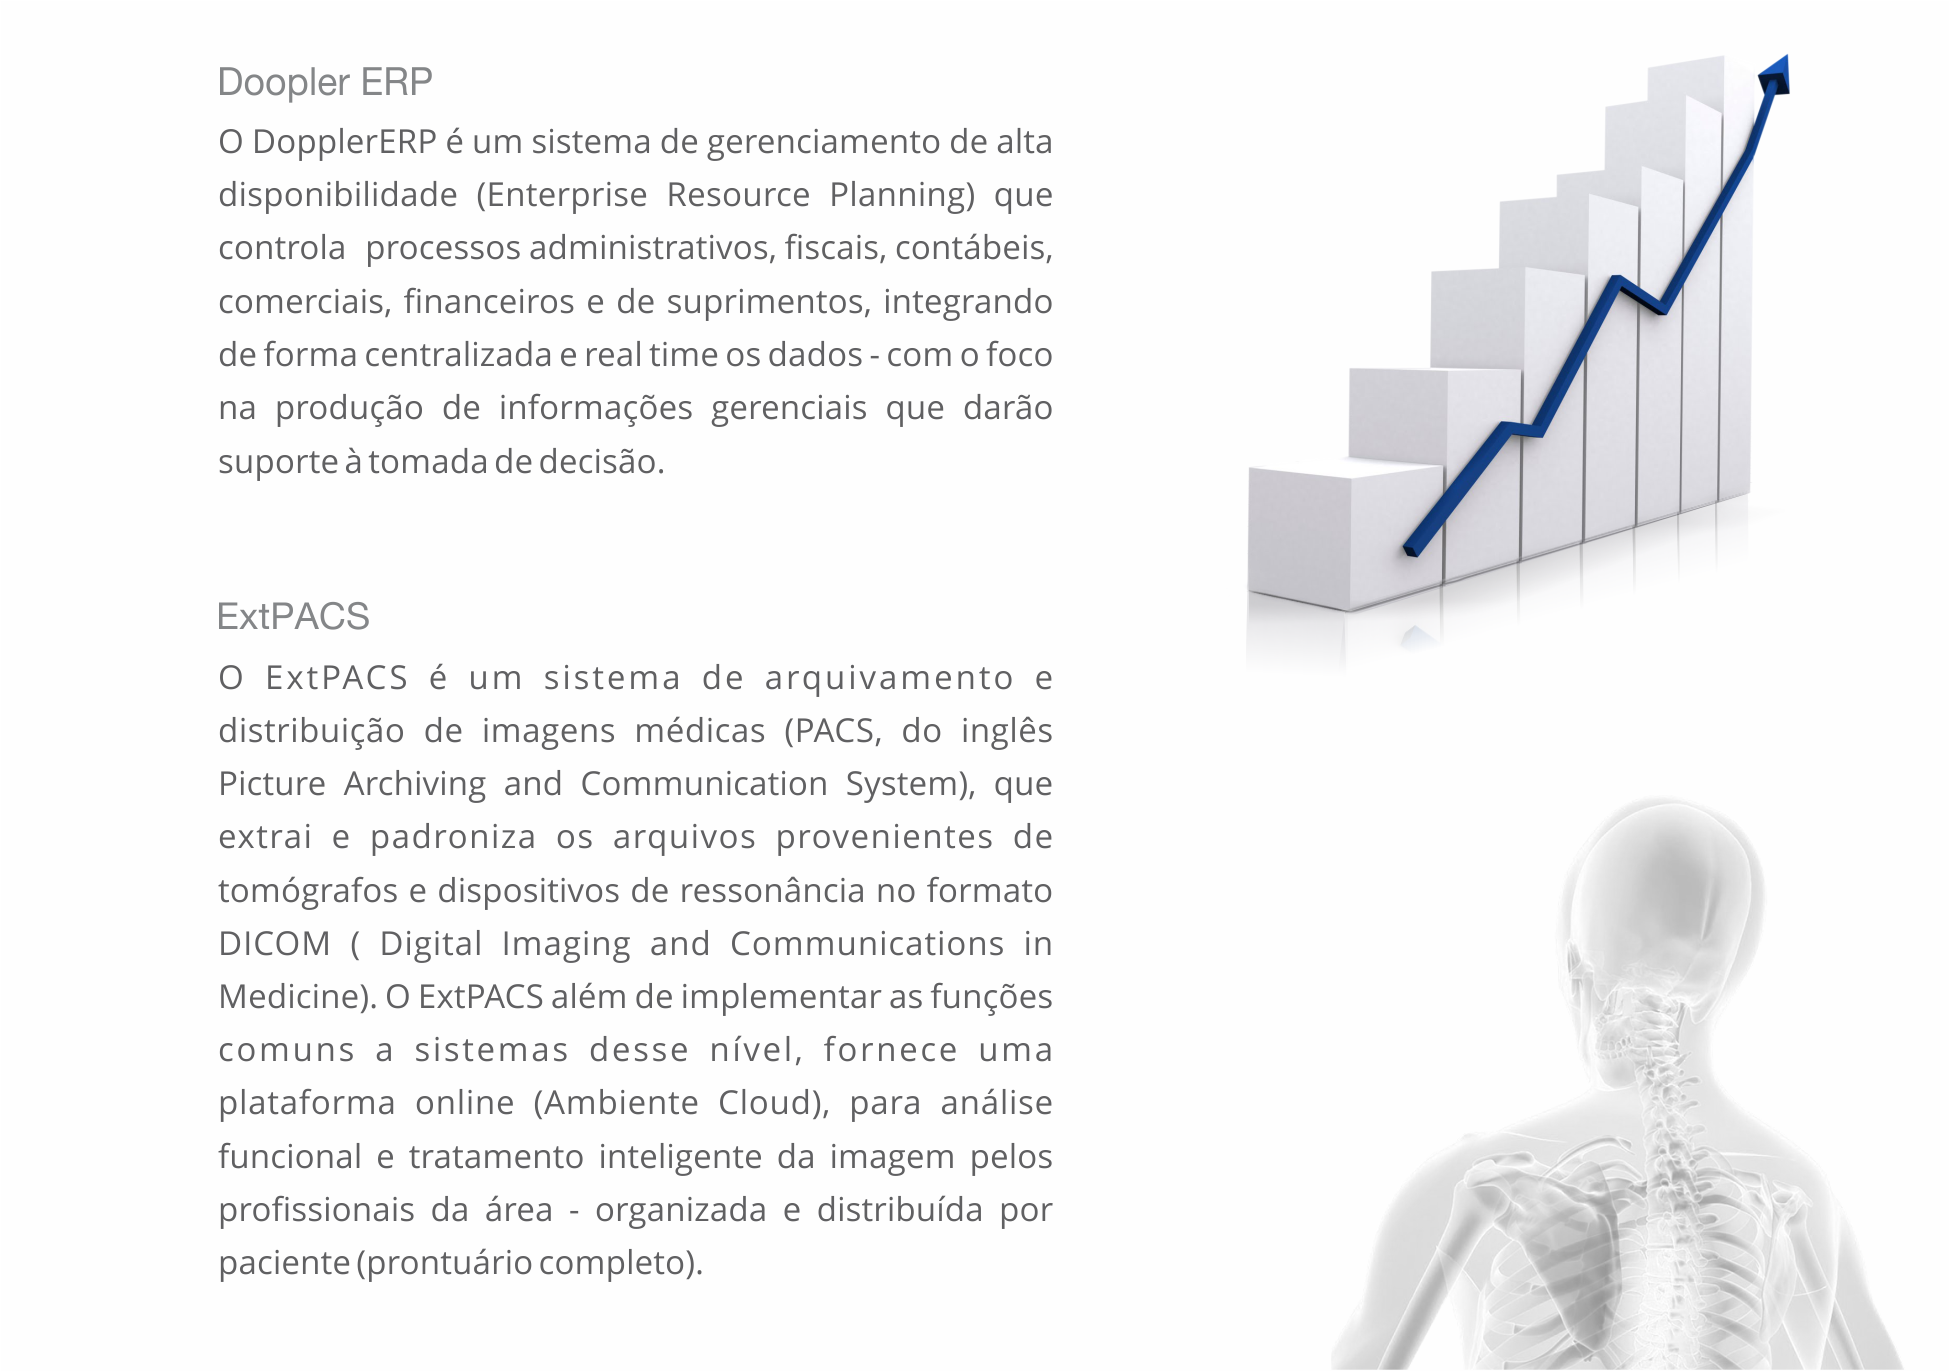
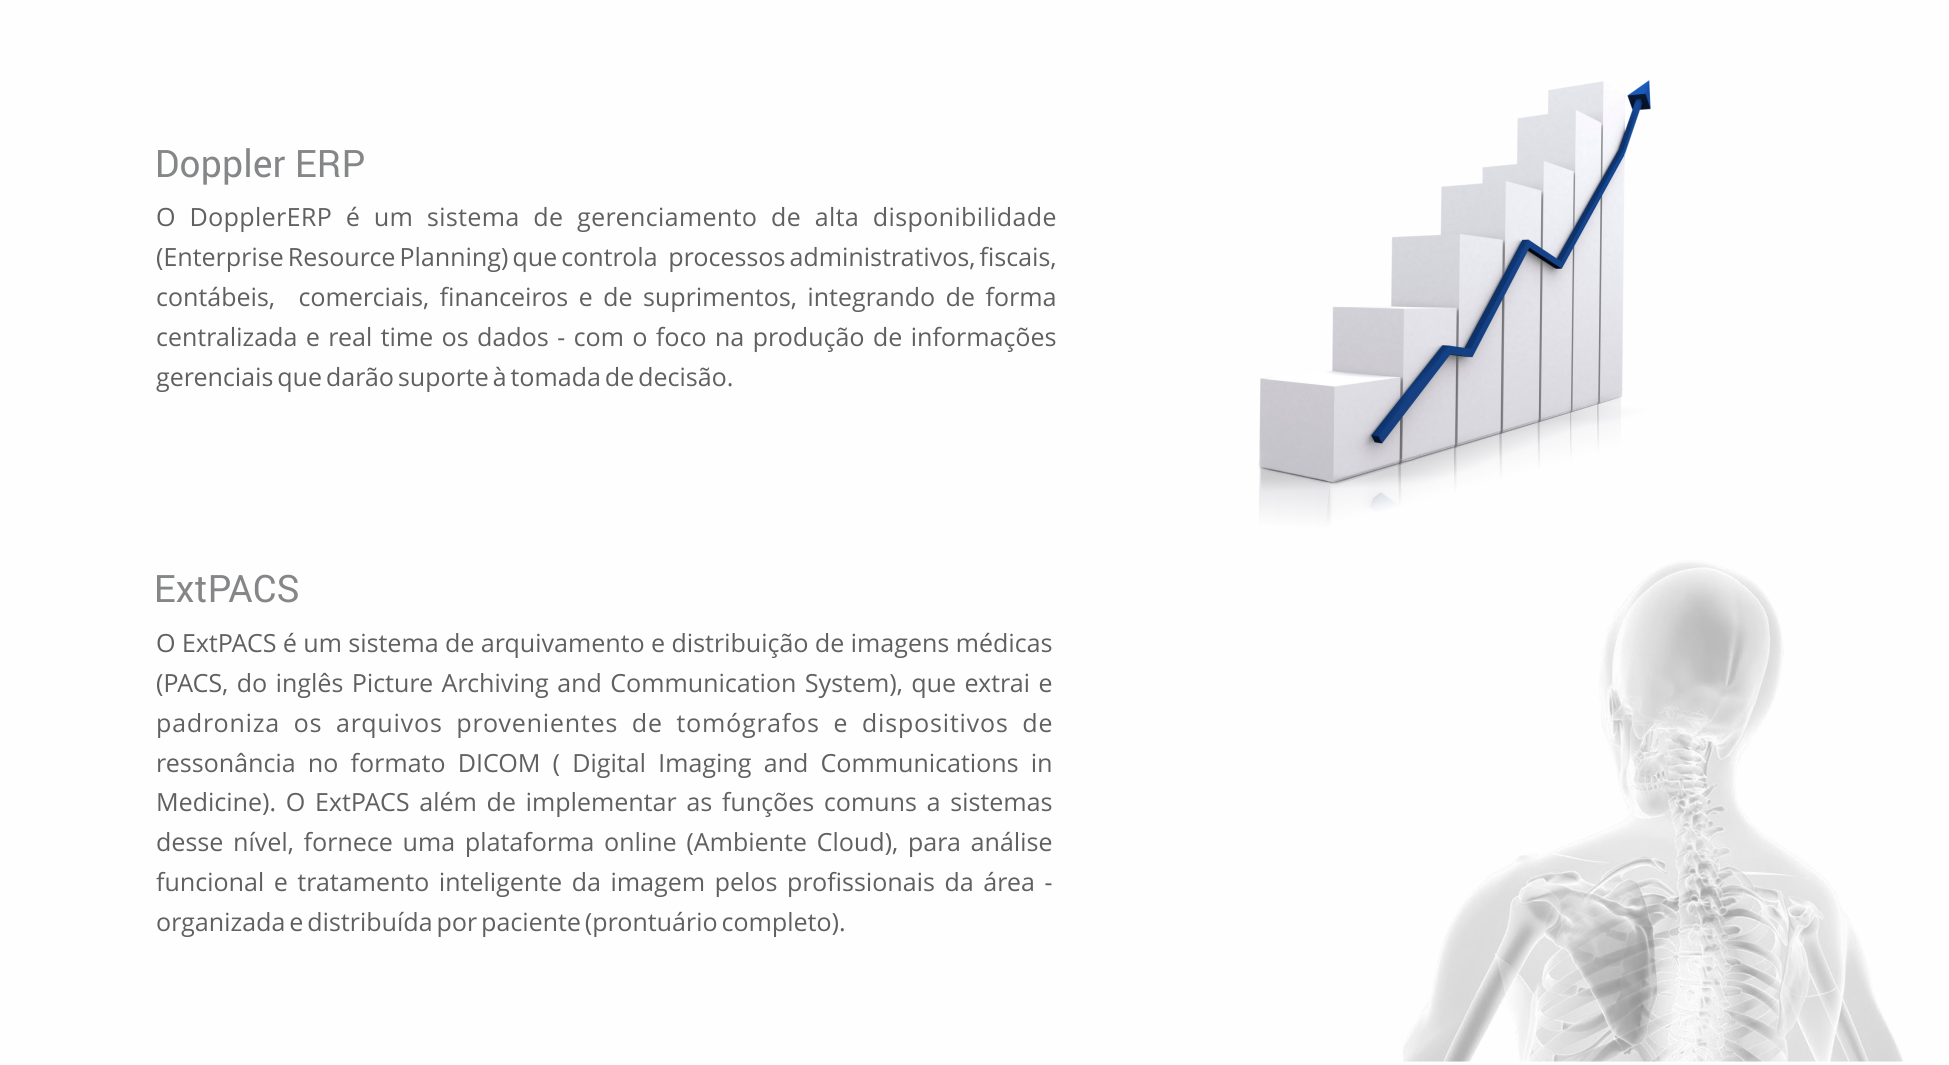
Ajustado css para mobile

diff --git a/index.html b/index.html
@@ -4,7 +4,6 @@
 		<title>Adroaldo Pagliari</title>
 		<meta charset="utf-8">
 		<meta name="viewport" content="width=device-width">
-
 		<link rel="icon" href="imgs/favicon.png">
 		<link href='https://fonts.googleapis.com/css?family=Open+Sans' rel='stylesheet' type='text/css'>
 		<link href='https://fonts.googleapis.com/css?family=Roboto' rel='stylesheet' type='text/css'>
@@ -75,7 +74,31 @@
 		<div class= "box" id="portifolio">
 			<div class="container">
 				<h1>Meu Portifólio</h1>
-				<img src="imgs/portifolio.png" alt="portifolio" title="portifolio">
+				<div class="produto">
+					<h3>DopplerERP</h3>
+					<br>
+					<p>
+						O DopplerERP é um sistema de gerenciamento de alta disponibilidade (Enterprise Resource Planning) que controla
+						processos administrativos, fiscais, contábeis,
+						comerciais, financeiros e de suprimentos, integrando
+						de forma centralizada e real time os dados -
+						com o foco na produção de informações gerenciais que darão suporte à tomada de decisão.
+					</p>
+				</div>
+				<div class="produtoIMG">
+					<img src="imgs/graph.png" title="gráfico" alt="graph">
+				</div>
+				<div class="produto1">
+					<h3>ExtPACS</h3>
+					<br>
+					<p>
+						O ExtPACS é um sistema de arquivamento e distribuição de imagens médicas (PACS, do inglês Picture Archiving and Communication System),	que extrai e padroniza os arquivos provenientes de tomógrafos e dispositivos de ressonância no formato DICOM ( Digital Imaging and Communications in Medicine).
+						O ExtPACS além de implementar as funções comuns a sistemas desse nível, fornece uma plataforma online (Ambiente Cloud), para análise funcional e tratamento inteligente da imagem pelos profissionais da área - organizada e distribuída por paciente (prontuário completo).
+					</p>
+				</div>
+				<div class="produtoIMG1">
+					<img src="imgs/human.png" title="gráfico" alt="graph">
+				</div>
 			</div>
 		</div>
 		<div class="box" id="contato">
@@ -118,7 +141,7 @@
 							<button type="submit" class="btn btn-default">Enviar</button>
 						</div>
 					</div>
-				</form>			
+				</form>
 			</div>
 		</div>
 		<footer>
@@ -126,7 +149,7 @@
 			<p>Desenvolvido por Adroaldo Pagliari</p>
 			<a href="https://www.facebook.com/Adroald0"><i class="fa fa-facebook-official fa-2x"></i></a>
 			<a href="https://twitter.com/adroald0"><i class="fa fa-twitter-square fa-2x"></i></a>
-			<a href="https://github.com/adroaldopagliari"><i class="fa fa-github-square fa-2x"></i>	</a>					
+			<a href="https://github.com/adroaldopagliari"><i class="fa fa-github-square fa-2x"></i>	</a>
 		</footer>
 		<script type="text/javascript">
 			$("#btnmenu").click(function(){

diff --git a/css/style.css b/css/style.css
@@ -11,6 +11,12 @@
 	font-weight: bold;
 	color: #848688;
 }
+.container h3 {
+	font: 25px Roboto, Tahoma;
+	text-align: left;
+	font-weight: bold;
+	color: #848688;
+}
 header {
 	width: 100%;
 	padding: 10px 0px 10px 0px;
@@ -66,8 +72,8 @@ nav ul li a:hover {
 .box {
 	width: 100%;
 	float: left;
-	padding: 90px 0px 50px 0px;
-	min-height: 550px;
+	padding: 70px 0px 0px 0px;
+	min-height: 500px;
 }
 .row {
 	width: 960px;
@@ -112,9 +118,28 @@ footer a {
 	float: left;
 	margin-top: 20px;	 
 }
+.produto {
+	width: 50%;
+	float: left;
+	margin-top: 20px;	 
+}
+.produtoIMG {
+	width: 40%;
+	float: left;
+	margin-top: 20px;	 
+}
+.produto1 {
+	width: 50%;
+	float: left;
+	margin-top: 20px;	 
+}
+.produtoIMG1 {
+	width: 40%;
+	float: left;
+	margin-top: 20px;	 
+}
 #portifolio img {
-	width: 100%;
-	height: 100%;
+	width: 100%;	
 	float: left;
 }
 .redondo{

diff --git a/css/mobile.css b/css/mobile.css
@@ -1,0 +1,43 @@
+header img {
+	width: 80%;
+}
+nav ul li {
+	display: block;
+	list-style: none;
+}
+nav ul li a {
+	width: 100%;
+	font: 2em Rokkitt, Tahoma, Arial;
+	color: #FFF;
+	text-align: center;
+	padding: 10px 0px 10px 0px;
+	text-decoration: none;
+	float: left;
+}
+#menu {
+	display: none;
+}
+#btnmenu {
+	display: block;
+}
+#banner {
+	display: none;
+}
+.aboutme {
+	width: 100%;
+}
+.aboutme img {
+	opacity: 1;
+}
+.produto {
+	width: 100%;
+}
+.produtoIMG img {
+	display: none;
+}
+.produto1 {
+	width: 100%;
+}
+.produtoIMG1 img {
+	display: none;
+}
